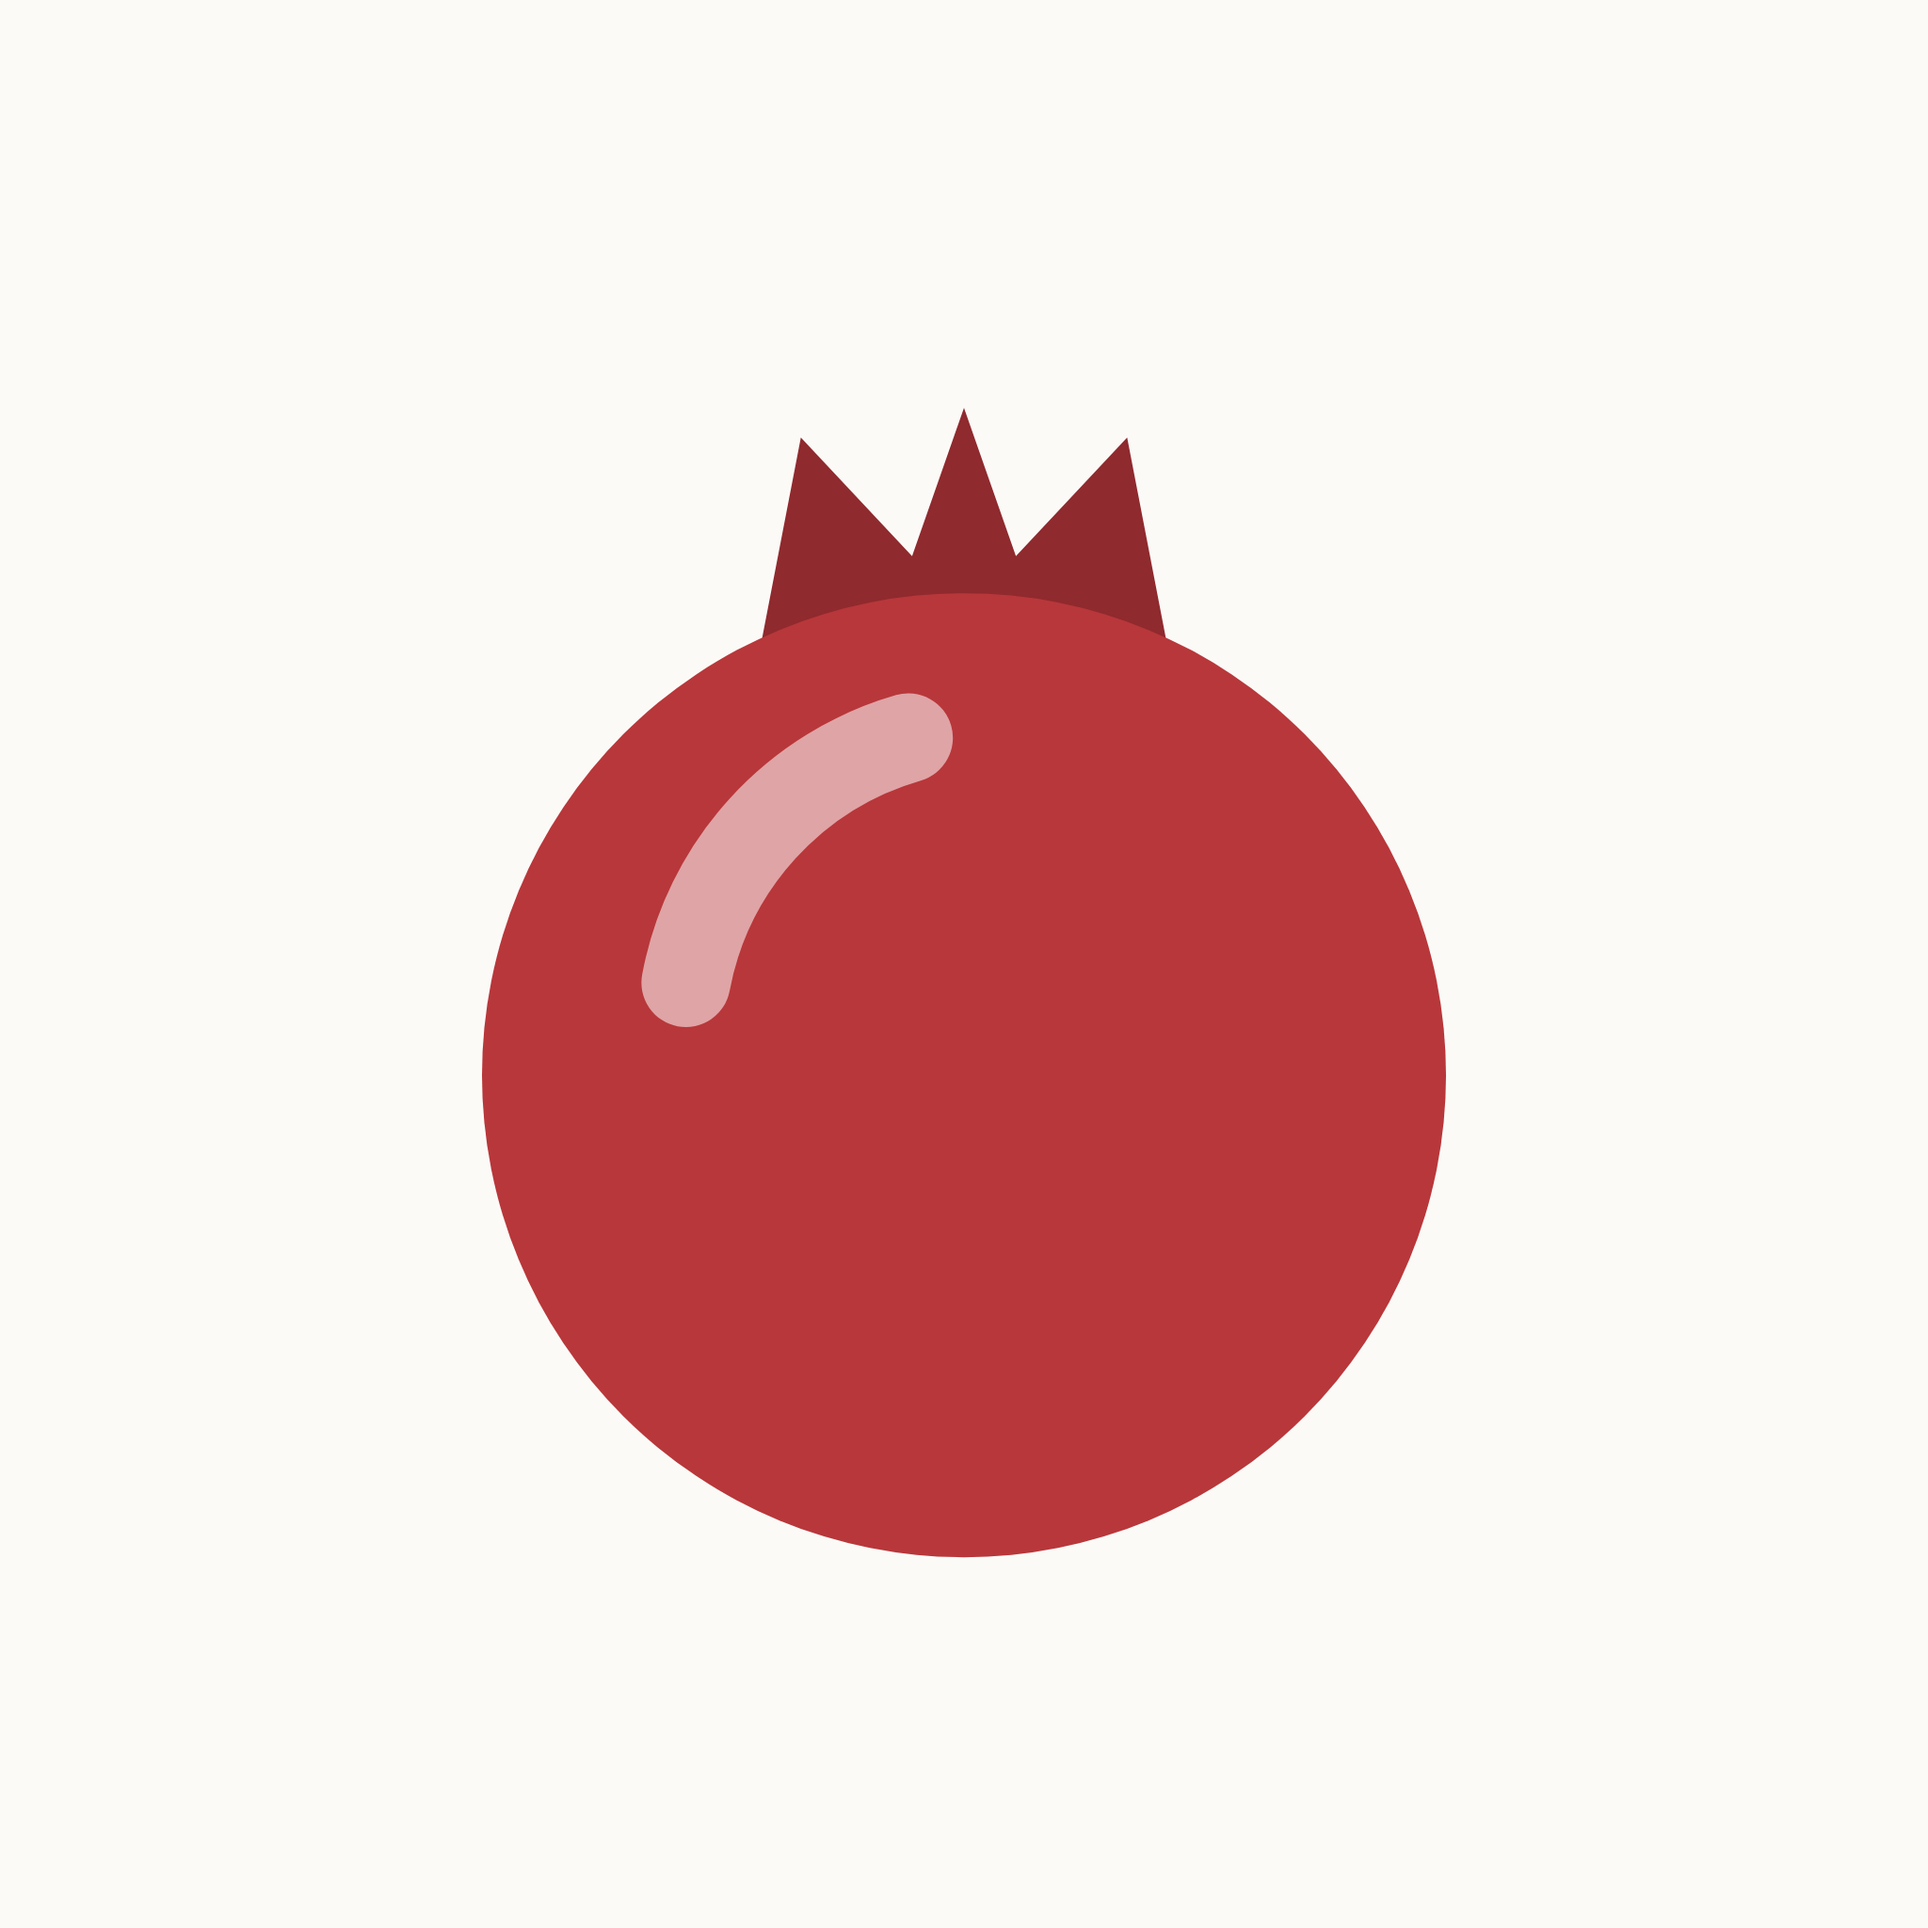
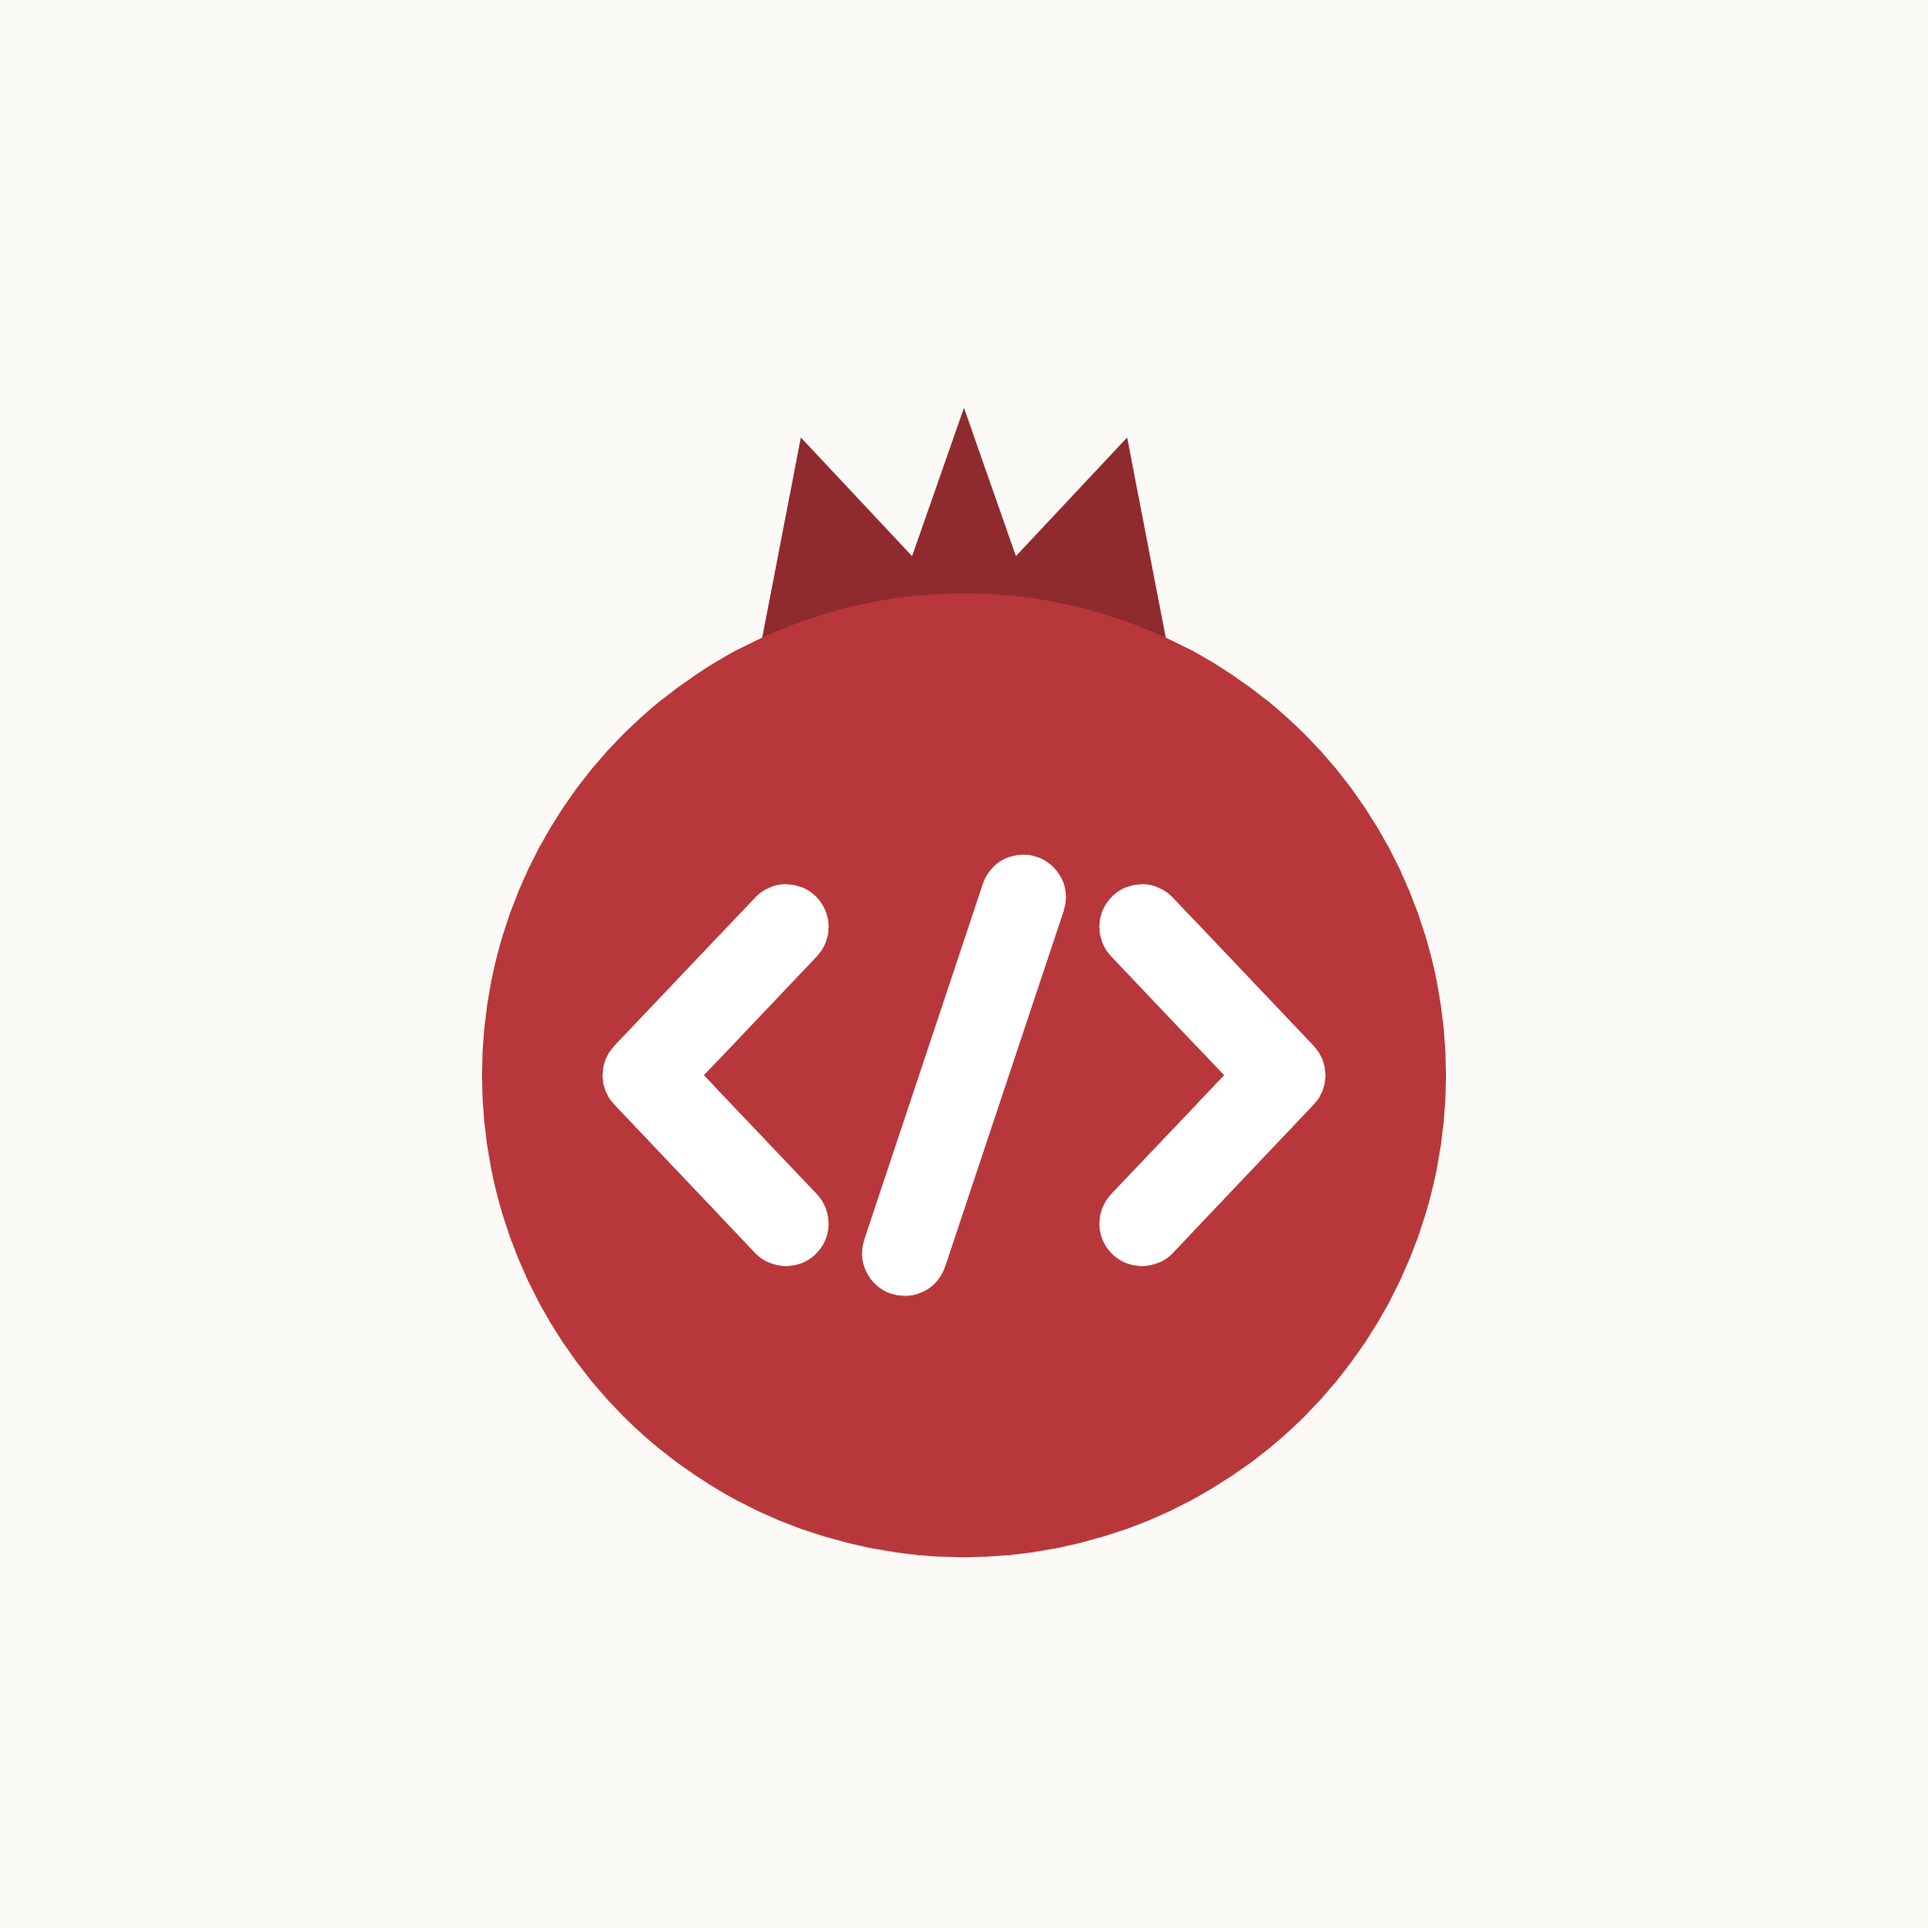
Новый логотип: гранат со скобками </> на сайте, в иконках, превью и оформлении Facebook
Azat: «пусть внутри граната будут скобки </> ... измени во всех местах» (2026-09-28T05:05Z).

Claude-Session: https://claude.ai/code/session_01QjtB9fRuNnmokuxqYAqG2Y

Changed region(s): [[0.3125, 0.3438, 0.6875, 0.6875]]

diff --git a/site/index.html b/site/index.html
@@ -31,7 +31,7 @@
 <body>
 <noscript><div><img src="https://mc.yandex.ru/watch/113109354" style="position:absolute; left:-9999px;" alt="" /></div></noscript>
 <header class="top"><div class="wrap top__in">
-  <a href="#" class="logo" aria-label="EvnWeb"><svg viewBox="0 0 40 40" aria-hidden="true"><path d="M14.5 11.5 15.6 5.8l3 3.2L20 5l1.4 4 3-3.2 1.1 5.7Z" fill="#8f2a2e"/><circle cx="20" cy="23" r="13" fill="#b8373a"/><path d="M12.5 20.5a8.5 8.5 0 0 1 6-6.6" fill="none" stroke="#fff" stroke-opacity=".55" stroke-width="2.4" stroke-linecap="round"/></svg><span>Evn<b>Web</b></span></a>
+  <a href="#" class="logo" aria-label="EvnWeb"><svg viewBox="0 0 40 40" aria-hidden="true"><path d="M14.5 11.5 15.6 5.8l3 3.2L20 5l1.4 4 3-3.2 1.1 5.7Z" fill="#8f2a2e"/><circle cx="20" cy="23" r="13" fill="#b8373a"/><path d="M15.2 19 11.4 23l3.8 4M24.8 19l3.8 4-3.8 4M21.6 18.2l-3.2 9.6" fill="none" stroke="#fff" stroke-width="2.3" stroke-linecap="round" stroke-linejoin="round"/></svg><span>Evn<b>Web</b></span></a>
   <nav class="nav"><a href="#services">Услуги</a><a href="#works">Работы</a><a href="#prices">Цены</a><a href="#docs">Документы</a><a href="#contacts">Контакты</a></nav>
   <a class="btn btn--sm" href="https://t.me/+37493401179" target="_blank" rel="noopener"><svg viewBox="0 0 24 24" fill="currentColor"><path d="M21.9 4.3 18.8 19c-.2 1-.9 1.3-1.7.8l-4.6-3.4-2.2 2.1c-.3.3-.5.5-1 .5l.3-4.7 8.6-7.8c.4-.3-.1-.5-.6-.2L6.9 13 2.4 11.6c-1-.3-1-1 .2-1.5L20.5 3.2c.8-.3 1.6.2 1.4 1.1Z"/></svg><span>Написать в Telegram</span></a>
 </div></header>
